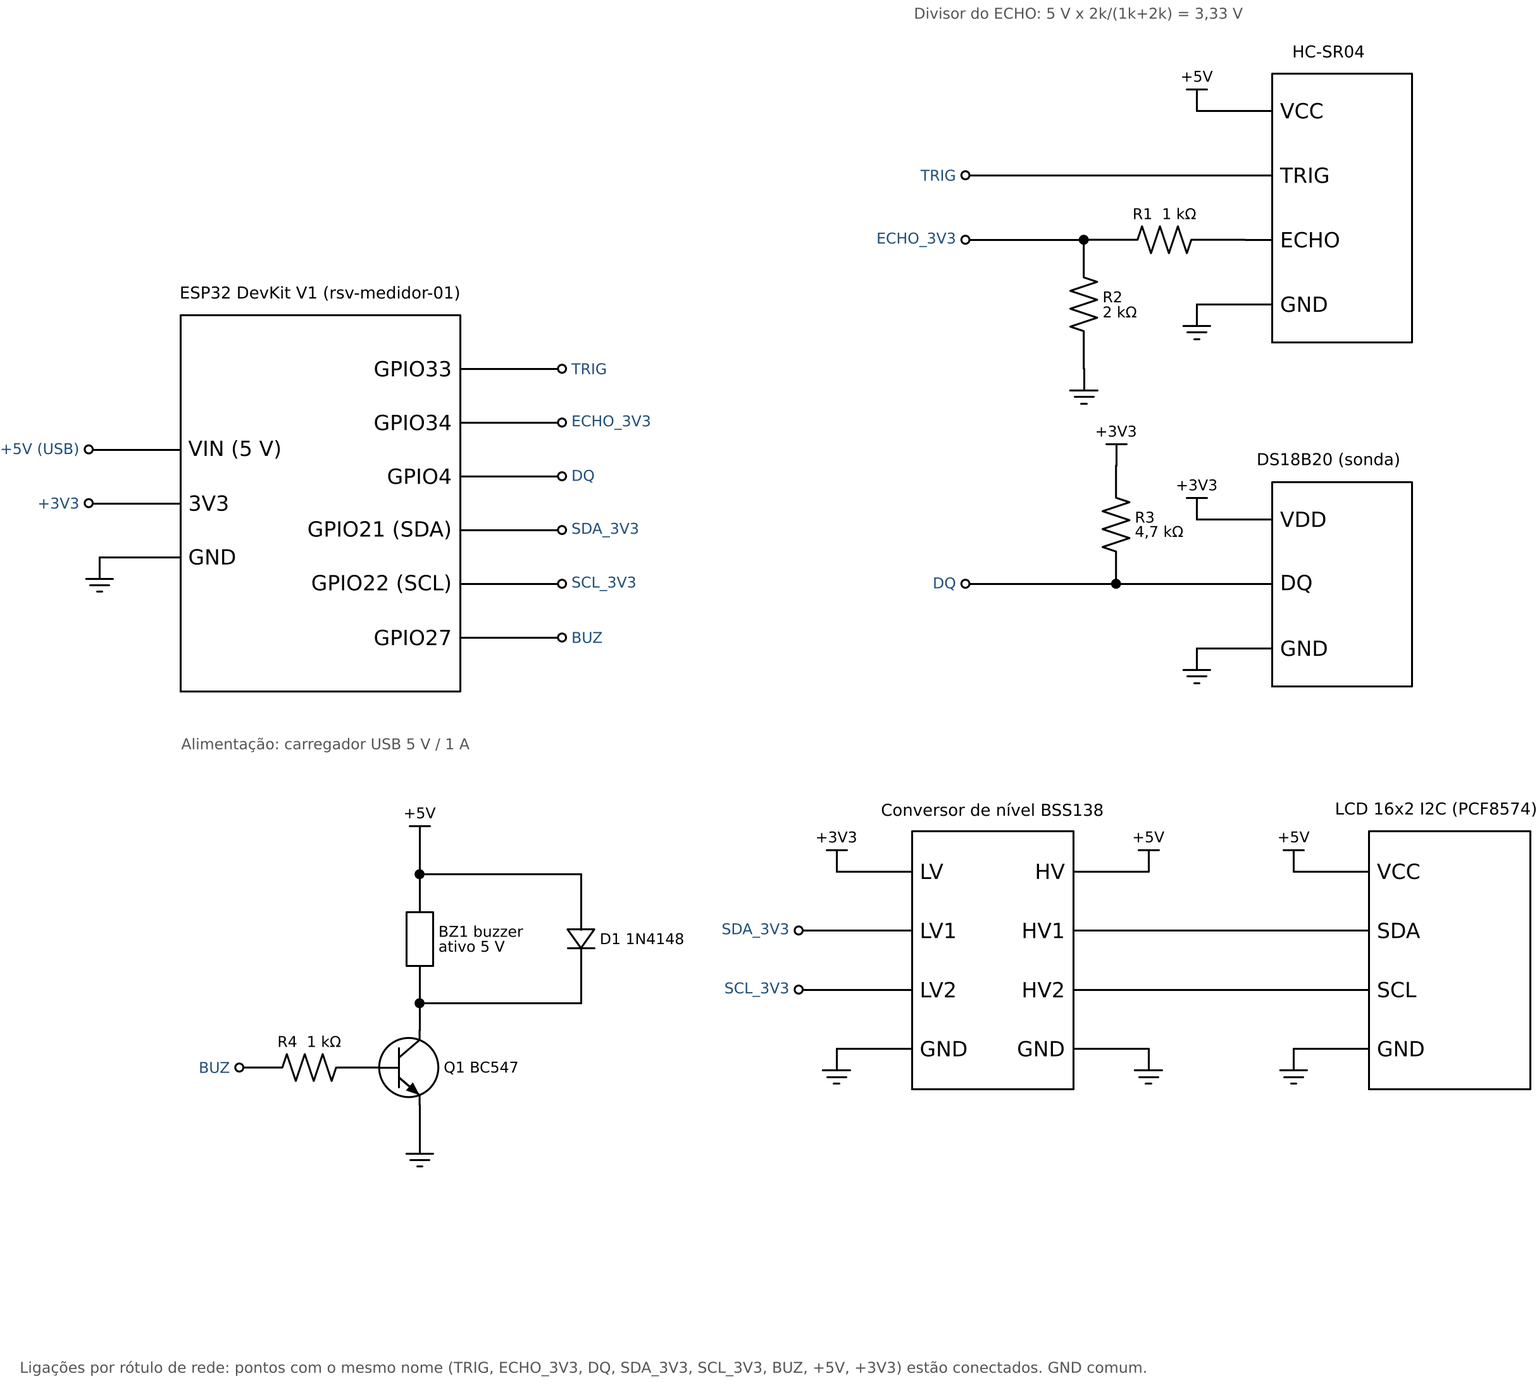
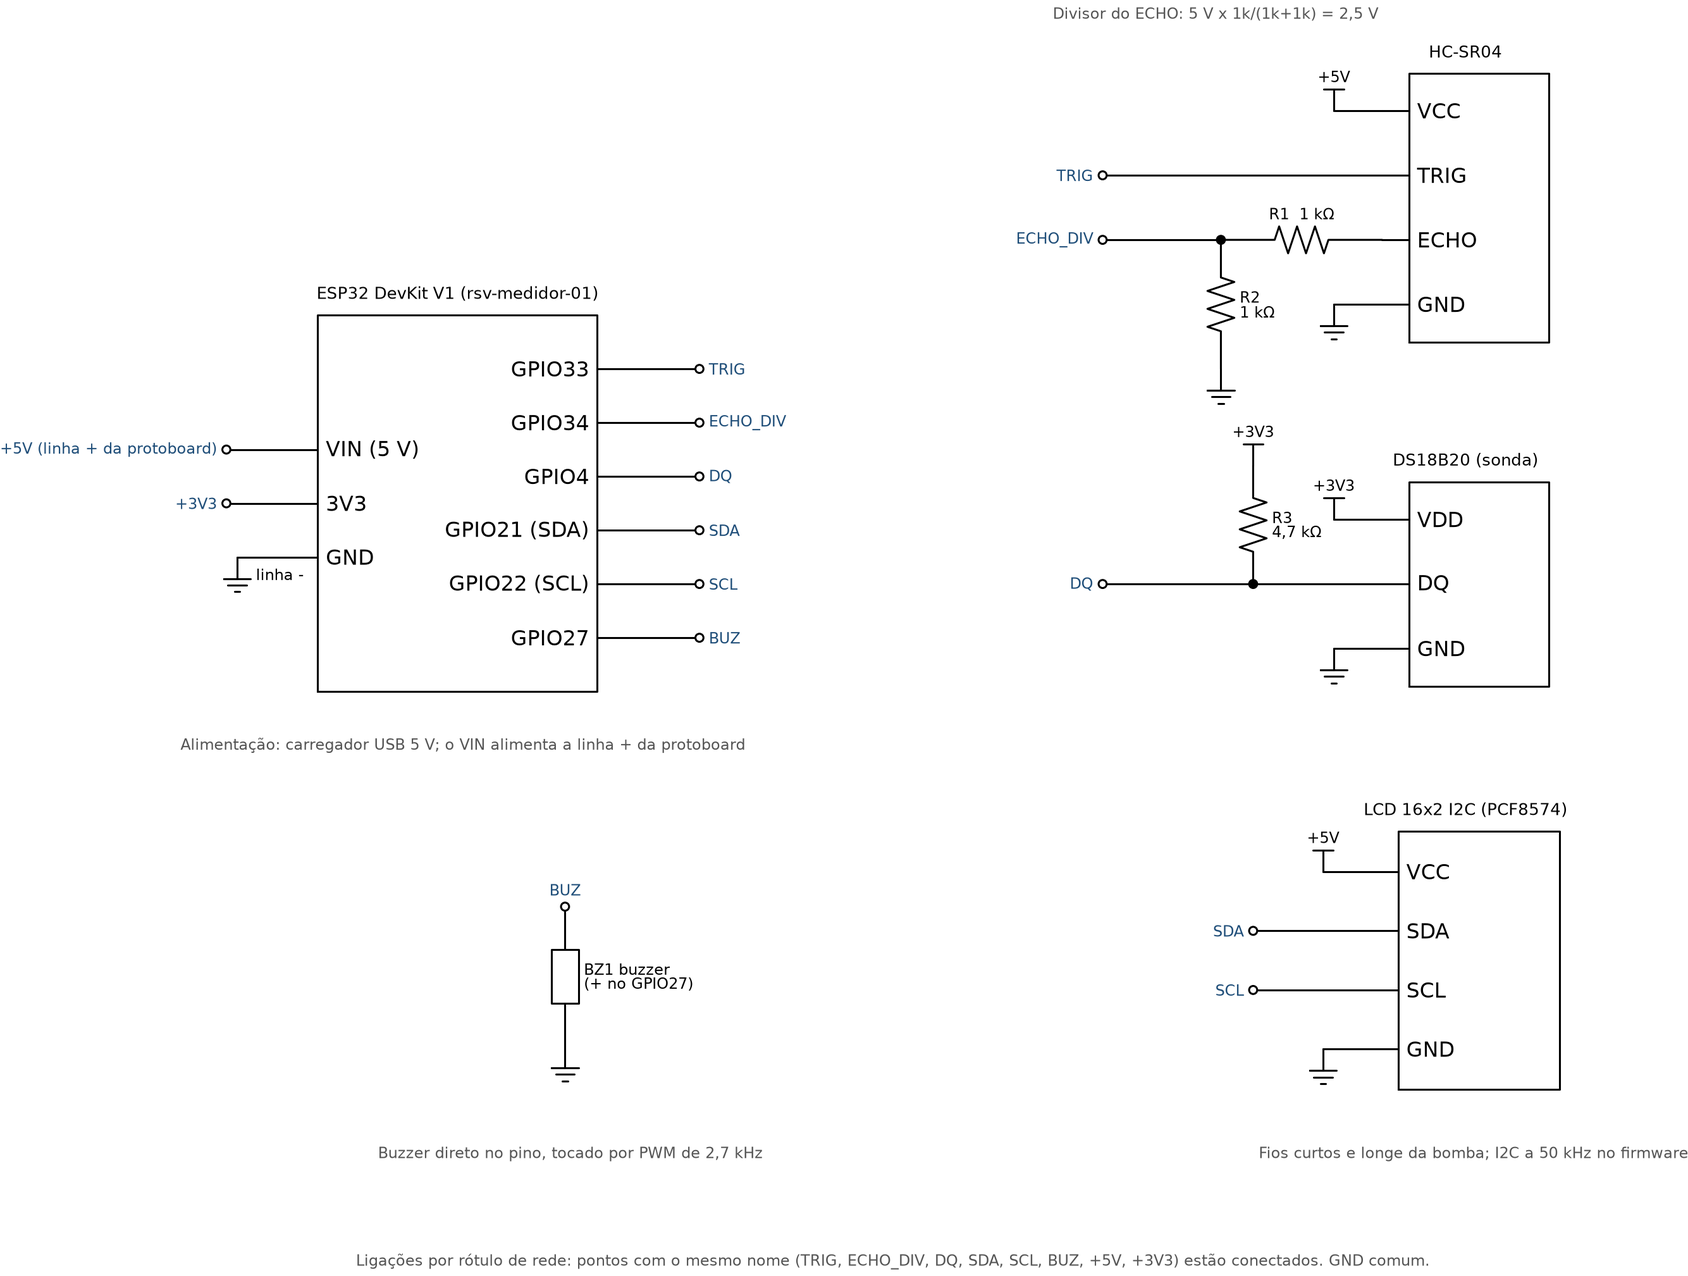
Documentacao de hardware conforme a montagem real
Mapa de pinos, lista de materiais e esquemas do medidor e do controlador refeitos para o que foi montado, com as diferencas em relacao ao CP12. Fotos da maquete e da caixa.

diff --git a/docs/hardware/esquemas_schemdraw.py b/docs/hardware/esquemas_schemdraw.py
@@ -41,22 +41,24 @@ def note(d, p, text):
 
 
 # ======================================================== MEDIDOR
+# Montagem da N3 (ver mapa_de_pinos.md): LCD e buzzer ligados direto, divisor
+# do ECHO com dois resistores de 1 kOhm.
 with schemdraw.Drawing(file='esquema_medidor.png', dpi=170, show=False) as d:
     esp = ic([('GND', 'left', 'gnd'), ('3V3', 'left', 'v33'), ('VIN (5 V)', 'left', 'vin'),
-              ('GPIO27', 'right', 'g19'), ('GPIO22 (SCL)', 'right', 'g22'), ('GPIO21 (SDA)', 'right', 'g21'),
-              ('GPIO4', 'right', 'g4'), ('GPIO34', 'right', 'g18'), ('GPIO33', 'right', 'g23')],
+              ('GPIO27', 'right', 'g27'), ('GPIO22 (SCL)', 'right', 'g22'), ('GPIO21 (SDA)', 'right', 'g21'),
+              ('GPIO4', 'right', 'g4'), ('GPIO34', 'right', 'g34'), ('GPIO33', 'right', 'g33')],
              (5.2, 7.0), 'ESP32 DevKit V1 (rsv-medidor-01)', spacing=1.0)
     d += esp.at((0, 0))
-    stub_net(d, esp.vin, -1.2, '+5V (USB)')
+    stub_net(d, esp.vin, -1.2, '+5V (linha + da protoboard)')
     stub_net(d, esp.v33, -1.2, '+3V3')
-    gnd(d, esp.gnd, -1.0)
-    stub_net(d, esp.g23, 1.4, 'TRIG')
-    stub_net(d, esp.g18, 1.4, 'ECHO_3V3')
+    gnd(d, esp.gnd, -1.0, 'linha -')
+    stub_net(d, esp.g33, 1.4, 'TRIG')
+    stub_net(d, esp.g34, 1.4, 'ECHO_DIV')
     stub_net(d, esp.g4, 1.4, 'DQ')
-    stub_net(d, esp.g21, 1.4, 'SDA_3V3')
-    stub_net(d, esp.g22, 1.4, 'SCL_3V3')
-    stub_net(d, esp.g19, 1.4, 'BUZ')
-    note(d, (0, -4.6), 'Alimentação: carregador USB 5 V / 1 A')
+    stub_net(d, esp.g21, 1.4, 'SDA')
+    stub_net(d, esp.g22, 1.4, 'SCL')
+    stub_net(d, esp.g27, 1.4, 'BUZ')
+    note(d, (0, -4.6), 'Alimentação: carregador USB 5 V; o VIN alimenta a linha + da protoboard')
 
     # ---- HC-SR04 com divisor no ECHO
     hc = ic([('GND', 'left', 'gnd'), ('ECHO', 'left', 'echo'), ('TRIG', 'left', 'trig'), ('VCC', 'left', 'vcc')],
@@ -67,11 +69,11 @@ with schemdraw.Drawing(file='esquema_medidor.png', dpi=170, show=False) as d:
     r1 = elm.Resistor().at(hc.echo).to((hc.echo[0] - 3.0, hc.echo[1])).label('R1  1 kΩ', fontsize=FS)
     d += r1
     d += elm.Dot().at(r1.end)
-    stub_net(d, r1.end, -2.2, 'ECHO_3V3')
-    d += elm.Resistor().at(r1.end).down(2.4).label('R2\n2 kΩ', loc='bottom', fontsize=FS)
+    stub_net(d, r1.end, -2.2, 'ECHO_DIV')
+    d += elm.Resistor().at(r1.end).down(2.4).label('R2\n1 kΩ', loc='bottom', fontsize=FS)
     d += elm.Ground()
     gnd(d, hc.gnd, -0.9)
-    note(d, (14.2, 9.2), 'Divisor do ECHO: 5 V x 2k/(1k+2k) = 3,33 V')
+    note(d, (14.2, 9.2), 'Divisor do ECHO: 5 V x 1k/(1k+1k) = 2,5 V')
 
     # ---- DS18B20 com pull-up
     ds = ic([('GND', 'left', 'gnd'), ('DQ', 'left', 'dq'), ('VDD', 'left', 'vdd')],
@@ -86,112 +88,57 @@ with schemdraw.Drawing(file='esquema_medidor.png', dpi=170, show=False) as d:
     stub_net(d, ldq.end, -2.8, 'DQ')
     gnd(d, ds.gnd, -0.9)
 
-    # ---- Conversor de nível + LCD
-    ls = ic([('GND', 'left', 'gnd'), ('LV2', 'left', 'lv2'), ('LV1', 'left', 'lv1'), ('LV', 'left', 'lv'),
-             ('GND', 'right', 'gnd2'), ('HV2', 'right', 'hv2'), ('HV1', 'right', 'hv1'), ('HV', 'right', 'hv')],
-            (3.0, 4.8), 'Conversor de nível BSS138', spacing=1.1)
-    d += ls.at((12.5, -8.5))
-    pwr(d, ls.lv, -0.9, '+3V3')
-    stub_net(d, ls.lv1, -1.6, 'SDA_3V3')
-    stub_net(d, ls.lv2, -1.6, 'SCL_3V3')
-    gnd(d, ls.gnd, -0.9)
+    # ---- LCD ligado direto no I2C
     lcd = ic([('GND', 'left', 'gnd'), ('SCL', 'left', 'scl'), ('SDA', 'left', 'sda'), ('VCC', 'left', 'vcc')],
              (3.0, 4.8), 'LCD 16x2 I2C (PCF8574)', spacing=1.1)
-    d += lcd.at((21.0, -8.5))
-    d += elm.Line().at(ls.hv1).to(lcd.sda)
-    d += elm.Line().at(ls.hv2).to(lcd.scl)
-    pwr(d, ls.hv, 0.9, '+5V')
-    gnd(d, ls.gnd2, 0.9)
+    d += lcd.at((19, -8.5))
     pwr(d, lcd.vcc, -0.9, '+5V')
+    stub_net(d, lcd.sda, -2.2, 'SDA')
+    stub_net(d, lcd.scl, -2.2, 'SCL')
     gnd(d, lcd.gnd, -0.9)
+    note(d, (19, -12.0), 'Fios curtos e longe da bomba; I2C a 50 kHz no firmware')
 
-    # ---- Buzzer com transistor
-    bx, by = -1.5, -10.5
-    netlabel(d, (bx, by), 'BUZ', 'left')
-    rb = elm.Resistor().at((bx, by)).right(2.6).label('R4  1 kΩ', fontsize=FS)
-    d += rb
-    q = elm.BjtNpn(circle=True).anchor('base').at(rb.end).label('Q1 BC547', loc='right', fontsize=FS)
-    d += q
-    d += elm.Line().at(q.emitter).down(0.5)
+    # ---- Buzzer ligado direto
+    bx, by = 2.0, -7.5
+    netlabel(d, (bx, by), 'BUZ', 'top')
+    d += elm.ResistorIEC().at((bx, by)).down(2.6).label('BZ1 buzzer\n(+ no GPIO27)', loc='bottom', fontsize=FS)
     d += elm.Ground()
-    lc = elm.Line().at(q.collector).up(0.5)
-    d += lc
-    d += elm.Dot()
-    top = lc.end
-    bz = elm.ResistorIEC().at(top).up(2.4).label('BZ1 buzzer\nativo 5 V', loc='bottom', fontsize=FS)
-    d += bz
-    d += elm.Dot().at(bz.end)
-    d += elm.Line().at(bz.end).up(0.5)
-    d += elm.Vdd().label('+5V', fontsize=FS)
-    d += elm.Line().at(top).right(3.0)
-    d += elm.Diode().up(2.4).reverse().label('D1 1N4148', loc='bottom', fontsize=FS)
-    d += elm.Line().to(bz.end)
+    note(d, (2.0, -12.0), 'Buzzer direto no pino, tocado por PWM de 2,7 kHz')
 
-    note(d, (5, -16.0), 'Ligações por rótulo de rede: pontos com o mesmo nome (TRIG, ECHO_3V3, DQ, SDA_3V3, SCL_3V3, BUZ, +5V, +3V3) estão conectados. GND comum.')
+    note(d, (8, -14.0), 'Ligações por rótulo de rede: pontos com o mesmo nome (TRIG, ECHO_DIV, DQ, SDA, SCL, BUZ, +5V, +3V3) estão conectados. GND comum.')
 
 # ======================================================== CONTROLADOR
+# Montagem da N3: relé JQC3F-03VDC alimentado pelo 3V3, sem LEDs de status, e a
+# bomba com carregador próprio chaveado pelo contato COM/NO.
 with schemdraw.Drawing(file='esquema_controlador.png', dpi=170, show=False) as d:
-    esp = ic([('GND', 'left', 'gnd'), ('VIN (5 V)', 'left', 'vin'),
-              ('GPIO27', 'right', 'g27'), ('GPIO25', 'right', 'g25'), ('GPIO26', 'right', 'g26')],
-             (4.6, 4.4), 'ESP32 DevKit V1 (rsv-controlador-01)', spacing=1.0)
+    esp = ic([('GND', 'left', 'gnd'), ('3V3', 'left', 'v33'), ('GPIO26', 'right', 'g26')],
+             (4.6, 3.4), 'ESP32 DevKit V1 (rsv-controlador-01)', spacing=1.0)
     d += esp.at((0, 0))
-    stub_net(d, esp.vin, -1.2, '+5V_A')
+    stub_net(d, esp.v33, -1.2, '+3V3')
     gnd(d, esp.gnd, -1.0)
     stub_net(d, esp.g26, 1.4, 'RELE_IN')
-    stub_net(d, esp.g25, 1.4, 'LED_VD')
-    stub_net(d, esp.g27, 1.4, 'LED_VM')
-    note(d, (0, -3.3), 'Fonte A: carregador USB 5 V / 1 A')
+    note(d, (0, -2.8), 'Alimentação: carregador USB 5 V próprio (não usa a protoboard)')
 
-    for i, (n, r, lbl) in enumerate([('LED_VD', 'R6\n330 Ω', 'LD1 verde\n(operando)'),
-                                      ('LED_VM', 'R7\n330 Ω', 'LD2 vermelho\n(MODO_SEGURO)')]):
-        x, y = -1.8 + i * 4.6, -5.0
-        netlabel(d, (x, y), n, 'top')
-        d += elm.Resistor().at((x, y)).down(2.2).label(r, loc='bottom', fontsize=FS)
-        d += elm.LED().down(2.2).label(lbl, loc='bottom', fontsize=FS)
-        d += elm.Ground()
-
-    rl = ic([('GND', 'left', 'gnd'), ('IN', 'left', 'inp'), ('VCC', 'left', 'vcc'),
+    rl = ic([('DC-', 'left', 'gnd'), ('IN', 'left', 'inp'), ('DC+', 'left', 'vcc'),
              ('NC', 'right', 'nc'), ('NO', 'right', 'no'), ('COM', 'right', 'com')],
-            (3.4, 4.0), 'Módulo relé 5 V (1 canal)', spacing=1.2)
-    d += rl.at((15.5, 0))
-    note(d, (15.5, -3.0), 'optoacoplado, trigger em nível ALTO')
-    pwr(d, rl.vcc, -0.9, '+5V_A')
-    li = elm.Line().at(rl.inp).to((rl.inp[0] - 2.6, rl.inp[1]))
-    d += li
-    d += elm.Dot().at(li.end)
-    stub_net(d, li.end, -1.4, 'RELE_IN')
-    d += elm.Resistor().at(li.end).down(3.0).label('R5\n10 kΩ', loc='bottom', fontsize=FS)
-    d += elm.Ground()
+            (3.6, 4.0), 'Módulo relé JQC3F-03VDC', spacing=1.2)
+    d += rl.at((11.0, 0))
+    note(d, (11.0, -3.0), 'bobina de 3 V; jumper em High: IN em ALTO aciona')
+    pwr(d, rl.vcc, -0.9, '+3V3')
+    stub_net(d, rl.inp, -1.6, 'RELE_IN')
     gnd(d, rl.gnd, -0.9)
     d += elm.Line().at(rl.nc).right(0.8)
     d += elm.Label().label('(livre)', loc='right', fontsize=FS)
 
-    # circuito de potência (Fonte B)
-    ytop, ybot = 4.5, -5.0
-    xm, xd, xc1, xc2, xs = rl.no[0] + 3.0, rl.no[0] + 6.0, rl.no[0] + 8.5, rl.no[0] + 11.0, rl.no[0] + 13.5
+    # circuito da bomba, isolado do ESP32
+    ytop, ybot = 4.0, -4.5
+    xm, xs = rl.no[0] + 4.0, rl.no[0] + 8.5
     d += elm.Line().at(rl.com).right(0.8)
     d += elm.Line().up(ytop - rl.com[1])
-    xf0 = rl.com[0] + 0.8
-    d += elm.Fuse().at((xf0, ytop)).to((xf0 + 3.0, ytop)).label('F1  1 A', fontsize=FS)
-    d += elm.Line().at((xf0 + 3.0, ytop)).to((xs, ytop))
-    d += elm.Dot().at((xc2, ytop))
-    d += elm.Capacitor(polar=True).at((xc2, ytop)).to((xc2, ybot)).label('C2\n470 µF\n16 V', loc='bottom', fontsize=FS)
-    d += elm.SourceV().at((xs, ybot)).to((xs, ytop)).label('Fonte B\n5 V / 2 A', loc='bottom', fontsize=FS)
-
-    ymt, ymb = rl.no[1] - 0.6, ybot + 1.2
+    d += elm.Line().to((xs, ytop))
+    d += elm.SourceV().at((xs, ybot)).to((xs, ytop)).label('Carregador\nda bomba\n5 V', loc='bottom', fontsize=FS)
     d += elm.Line().at(rl.no).to((xm, rl.no[1]))
-    d += elm.Line().to((xm, ymt))
-    d += elm.Dot()
-    d += elm.Motor().at((xm, ymt)).to((xm, ymb)).label('M1 bomba\n5 V', loc='bottom', fontsize=FS)
-    d += elm.Dot()
-    d += elm.Line().at((xm, ymb)).to((xm, ybot))
-    d += elm.Line().at((xm, ymt)).to((xd, ymt))
-    d += elm.Diode().at((xd, ymt)).to((xd, ymb)).reverse().label('D2\n1N4007', loc='bottom', fontsize=FS)
-    d += elm.Line().to((xm, ymb))
-    d += elm.Line().at((xd, ymt)).to((xc1, ymt))
-    d += elm.Capacitor().at((xc1, ymt)).to((xc1, ymb)).label('C1\n100 nF', loc='bottom', fontsize=FS)
-    d += elm.Line().to((xd, ymb))
+    d += elm.Motor().at((xm, rl.no[1])).to((xm, ybot)).label('M1 bomba\n5 V', loc='bottom', fontsize=FS)
     d += elm.Line().at((xm, ybot)).to((xs, ybot))
-    d += elm.Dot().at((xc2, ybot))
-    gnd(d, (xs, ybot), 0.0, 'GND_B')
-    note(d, ((xm + xs) / 2, ybot - 1.6), 'Fonte B alimenta só a bomba, através do contato COM/NO do relé (isolado da Fonte A)')
+    note(d, ((rl.no[0] + xs) / 2 + 1.0, ybot - 1.4), 'A bomba tem alimentação própria: o relé só fecha o contato COM/NO (isolado do ESP32).')
+    note(d, ((rl.no[0] + xs) / 2 + 1.0, ybot - 2.2), 'Recomendado, não montado: diodo 1N4007 e capacitor de 100 nF nos terminais da bomba.')

diff --git a/docs/hardware/mapa_de_pinos.md b/docs/hardware/mapa_de_pinos.md
@@ -1,35 +1,60 @@
-# Mapa de pinos (CP12, v1.0)
+# Mapa de pinos (montagem da N3)
 
-Valores calculados a partir dos datasheets, não medidos. Esquemas: `esquema_medidor.png` e `esquema_controlador.png` nesta pasta.
+Como as placas estão montadas para a defesa: dois ESP32 numa protoboard dentro
+de uma caixa, cada um com seu carregador USB, e a bomba com carregador
+próprio. Só o medidor usa as linhas + e − da protoboard; o controlador é ligado
+direto ao módulo relé. Onde a montagem difere do projeto do CP12, ver a seção
+"Diferenças em relação ao CP12" no fim.
+
+| Maquete | Dentro da caixa |
+|---|---|
+| ![Maquete: caixa d'água à esquerda com os sensores na tampa, cisterna com a bomba à direita, caixa com o LCD no meio](foto-maquete.png) | ![Protoboard com os dois ESP32, o relé e o buzzer](foto-montagem-caixa.png) |
 
 ## ESP32 medidor (rsv-medidor-01)
 
 | Pino ESP32 | Ligado a | Função | Observação |
 |---|---|---|---|
-| VIN (5 V) | Carregador USB 5 V / 1 A; HC-SR04, LCD, buzzer | Alimentação | Entrada do regulador de 3,3 V |
-| 3V3 | DS18B20, R3, lado LV do conversor | Alimentação 3,3 V | Só cargas leves (cerca de 2 mA) |
-| GND | Todos os módulos | Terra comum | |
+| VIN (5 V) | Linha + da protoboard: HC-SR04, LCD | Alimentação | Vem do carregador USB do medidor |
+| 3V3 | DS18B20 e o pull-up de 4,7 kΩ | Alimentação 3,3 V | Só cargas leves (cerca de 2 mA) |
+| GND | Linha − da protoboard: todos os módulos do medidor | Terra comum | |
 | GPIO33 | HC-SR04 TRIG | Saída, pulso de 10 µs | Mesmo pino da N1 |
-| GPIO34 | HC-SR04 ECHO via divisor R1 = 1 kΩ / R2 = 2 kΩ | Entrada digital | Só entrada; máximo 3,33 V |
-| GPIO4 | DS18B20 DQ | 1-Wire | Pull-up R3 4,7 kΩ para 3,3 V |
-| GPIO21 | LV1 do conversor BSS138 → SDA do LCD | I2C SDA | Conversor 3,3 V ↔ 5 V |
-| GPIO22 | LV2 do conversor BSS138 → SCL do LCD | I2C SCL | Conversor 3,3 V ↔ 5 V |
-| GPIO27 | Base de Q1 (BC547) via R4 = 1 kΩ | Saída do buzzer | Buzzer acionado por transistor |
+| GPIO34 | HC-SR04 ECHO via divisor de dois resistores de 1 kΩ (ECHO, 1 kΩ, GPIO34, 1 kΩ, GND) | Entrada digital | Só entrada; recebe 2,5 V com o ECHO em 5 V |
+| GPIO4 | DS18B20 DQ (fio de dados) | 1-Wire | Pull-up de 4,7 kΩ para 3,3 V |
+| GPIO21 | SDA do módulo I2C do LCD (PCF8574) | I2C SDA | Ligado direto, fio curto; I2C a 50 kHz no firmware |
+| GPIO22 | SCL do módulo I2C do LCD | I2C SCL | Ligado direto, fio curto |
+| GPIO27 | + do buzzer (o − no GND) | Saída do buzzer | Ligado direto; tocado por PWM de 2,7 kHz |
 
 ## ESP32 controlador (rsv-controlador-01)
 
 | Pino ESP32 | Ligado a | Função | Observação |
 |---|---|---|---|
-| VIN (5 V) | Fonte A: carregador USB 5 V / 1 A | Alimentação | Separada da Fonte B (bomba) |
+| USB | Carregador USB 5 V próprio | Alimentação | Separada da do medidor e da bomba; o controlador não usa as linhas da protoboard |
 | 3V3 | DC+ do módulo relé JQC3F-03VDC | Bobina do relé (3 V) | Cerca de 120 mA com o relé acionado, tirados do regulador de 3,3 V da placa |
-| GND | DC- do módulo relé, LEDs, R5 | Terra do circuito lógico | Não vai ao GND da Fonte B |
-| GPIO26 | In1 do módulo relé (jumper em High) + R5 = 10 kΩ ao GND | ALTO = bomba ligada | Em reset fica BAIXO: bomba desligada |
-| GPIO25 | R6 = 330 Ω + LD1 verde | Operando (AUTOMÁTICO ou MANUAL) | |
-| GPIO27 | R7 = 330 Ω + LD2 vermelho | Estado SEGURO | |
+| GND | DC- do módulo relé | Terra do circuito lógico | Não vai ao terra do carregador da bomba |
+| GPIO26 | In1 do módulo relé (jumper em High) | ALTO = bomba ligada | Sem resistor de pull-down: o firmware põe o GPIO26 em LOW antes de qualquer outra coisa no boot |
+| COM / NO do relé | Carregador da bomba → bomba | Contato seco | A bomba tem carregador próprio, separado dos ESP32 |
+
+O estado do controlador (modo, bomba, motivo do SEGURO) aparece no painel e no
+Telegram. O firmware ainda aciona os pinos GPIO25 e GPIO27 do controlador para
+LEDs de status (verde operando, vermelho em SEGURO), mas eles não foram
+montados: dentro da caixa fechada não seriam vistos.
 
 ## Regras seguidas
 
 - Nenhum GPIO de 6 a 11 e nenhum pino de strapping (0, 2, 5, 12, 15).
-- Nenhum sinal de 5 V direto em GPIO: ECHO pelo divisor, I2C pelo conversor de nível.
-- Nenhuma carga alimentada por GPIO: bomba pela Fonte B via relé, bobina pelo transistor do módulo, buzzer por Q1.
+- Nenhuma carga de potência por GPIO: a bomba é chaveada pelo contato do relé,
+  com alimentação própria; a bobina do relé é acionada pelo transistor do módulo.
 - Sem sensores analógicos (HC-SR04 e DS18B20 são digitais).
+
+## Diferenças em relação ao CP12
+
+| Previsto no CP12 | Montado | Por quê |
+|---|---|---|
+| Relé de 5 V no VIN | Relé JQC3F-03VDC (bobina de 3 V) no 3V3, jumper em High | Modelo disponível; aciona com o nível de 3,3 V do ESP32 |
+| Divisor do ECHO com 1 kΩ e 2 kΩ (3,33 V no GPIO34) | Divisor com 1 kΩ e 1 kΩ, o mesmo da N1 (2,5 V no GPIO34) | Funciona nos testes, mas com pouca folga sobre o mínimo de 2,48 V para nível alto; a melhoria é pôr mais 1 kΩ em série no resistor de baixo |
+| Conversor de nível BSS138 no I2C do LCD | SDA e SCL ligados direto | Funciona com os pull-ups do módulo; o firmware reduz o I2C para 50 kHz |
+| Buzzer por transistor BC547 | Buzzer direto no GPIO27 | Buzzer de baixa corrente, toca direto do pino |
+| LEDs de status verde e vermelho | Não montados | Ficariam escondidos na caixa; o estado está no painel e no Telegram |
+| Diodo 1N4007, capacitores e fusível na bomba | Não montados | O ruído do motor embaralhava o LCD; resolvido encurtando os fios do LCD e afastando-os dos fios da bomba e do relé. O firmware também realinha o LCD a cada 3 s como garantia. O diodo e o capacitor de 100 nF nos terminais da bomba continuam recomendados |
+| Placas perfuradas e duas caixas | Uma protoboard numa caixa, com os fios do LCD soldados | Montagem possível no prazo |
+| Fonte B de 5 V / 2 A para a bomba | Carregador USB próprio da bomba | Mesmo papel: alimentação separada dos ESP32 |

diff --git a/docs/hardware/bom.md b/docs/hardware/bom.md
@@ -1,24 +1,34 @@
-# BOM (lista de materiais), CP12 v1.0
+# BOM (lista de materiais)
 
-| Item | Qtd | Especificação | Uso | Situação |
-|---|---|---|---|---|
-| ESP32 DevKit V1 | 2 | ESP32-WROOM-32, 30 pinos | Medidor e controlador | 1 da N1; 1 a comprar |
-| Sensor ultrassônico | 1 | HC-SR04 | Medidor: nível | Já tem (N1) |
-| Sensor de temperatura | 1 | DS18B20 em sonda à prova d'água | Medidor: corrige a velocidade do som | Já tem (N1) |
-| Display | 1 | LCD 16x2 com módulo I2C PCF8574 | Medidor: visor local | Já tem (N1) |
-| Buzzer | 1 | Buzzer ativo 5 V | Medidor: alerta local | Já tem (N1) |
-| Conversor de nível | 1 | Bidirecional 4 canais, BSS138 | Medidor: I2C 3,3 V ↔ 5 V | Comprar |
-| Transistor | 1 | BC547 (ou 2N2222) | Medidor: Q1 | Comprar |
-| Diodo de sinal | 1 | 1N4148 | Medidor: D1 | Comprar |
-| Módulo relé | 1 | 1 canal, relé JQC3F-03VDC (bobina de 3 V, cerca de 120 mA), DC+ no 3V3, DC- no GND, In1 no GPIO26, jumper de trigger em High | Controlador | Comprar |
-| Mini bomba | 1 | Submersível 5 V DC + mangueira de silicone | Controlador: atuador | Comprar |
-| Diodo retificador | 1 | 1N4007 | Bomba: D2 | Comprar |
-| Capacitores | 2 | 100 nF cerâmico; 470 µF / 16 V eletrolítico | Bomba: C1 e C2 | Comprar |
-| Fusível | 1 | 1 A ação retardada + porta-fusível | Bomba: F1 | Comprar |
-| Fonte B | 1 | 5 V / 2 A com plug P4 + adaptador P4 para borne | Alimentação da bomba | Comprar |
-| Carregadores USB | 2 | 5 V / 1 A + cabo micro USB curto | Alimentação dos ESP32 | Comprar |
-| Resistores 1/4 W | 7 | 1 kΩ (2), 2 kΩ (1), 4,7 kΩ (1), 10 kΩ (1), 330 Ω (2) | R1 a R7 | 1 kΩ e 4,7 kΩ já tem; resto comprar |
-| LEDs 5 mm | 2 | 1 verde, 1 vermelho | Controlador: LD1, LD2 | Comprar |
-| Montagem | 2 conj. | Placa perfurada, barra de pinos fêmea, bornes KRE 2 vias | Os dois dispositivos | Comprar |
-| Caixas | 2 | Caixa plástica tipo patola | Acabamento | Comprar |
-| Maquete | 1 | Recipiente da caixa d'água | Demonstração | Já tem (N1) |
+Planejada no CP12 e conferida com a montagem da N3. Detalhes das ligações e das
+diferenças em relação ao CP12 em [mapa_de_pinos.md](mapa_de_pinos.md).
+
+## Usados na montagem
+
+| Item | Qtd | Especificação | Uso |
+|---|---|---|---|
+| ESP32 DevKit V1 | 2 | ESP32-WROOM-32 | Medidor e controlador |
+| Sensor ultrassônico | 1 | HC-SR04 | Medidor: distância até a água |
+| Sensor de temperatura | 1 | DS18B20 em sonda à prova d'água | Medidor: corrige a velocidade do som |
+| Display | 1 | LCD 16x2 com módulo I2C PCF8574 | Medidor: visor local |
+| Buzzer | 1 | Buzzer 5 V | Medidor: alerta local |
+| Resistores | 3 | 1 kΩ (2) no divisor do ECHO; 4,7 kΩ (1) de pull-up do DS18B20 | Medidor |
+| Módulo relé | 1 | 1 canal, relé JQC3F-03VDC (bobina de 3 V), DC+ no 3V3, DC- no GND, IN no GPIO26, jumper em High | Controlador |
+| Mini bomba | 1 | Submersível 5 V DC + mangueira | Controlador: atuador |
+| Carregadores USB 5 V | 3 | Um para cada ESP32 e um para a bomba | Alimentação |
+| Protoboard | 1 | Protoboard comum | Montagem dos dois ESP32 |
+| Caixa | 1 | Caixa com abertura para o LCD | Acabamento |
+| Maquete | 1 | Duas garrafas: caixa d'água (com torneira e os sensores na tampa) e cisterna (com a bomba) | Demonstração |
+
+## Previstos no CP12 e não usados
+
+| Item | Por quê |
+|---|---|
+| Conversor de nível BSS138 | O LCD funciona ligado direto (I2C a 50 kHz no firmware) |
+| Transistor BC547 e diodo 1N4148 do buzzer | Buzzer ligado direto no GPIO27 |
+| Resistor de 2 kΩ do divisor do ECHO | Usado o divisor da N1, com dois resistores de 1 kΩ |
+| Resistor de 10 kΩ de pull-down no relé | O firmware põe o GPIO26 em LOW no boot |
+| LEDs verde e vermelho, resistores de 330 Ω | Ficariam escondidos na caixa; o estado aparece no painel e no Telegram |
+| Diodo 1N4007, capacitores de 100 nF e 470 µF, fusível de 1 A | Não comprados; continuam recomendados nos terminais da bomba |
+| Fonte de 5 V / 2 A para a bomba | Substituída por um carregador USB próprio |
+| Placas perfuradas, bornes e segunda caixa | Montagem em protoboard numa caixa só |
